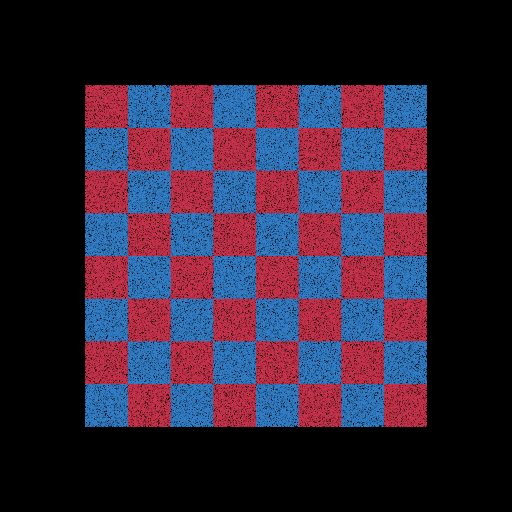
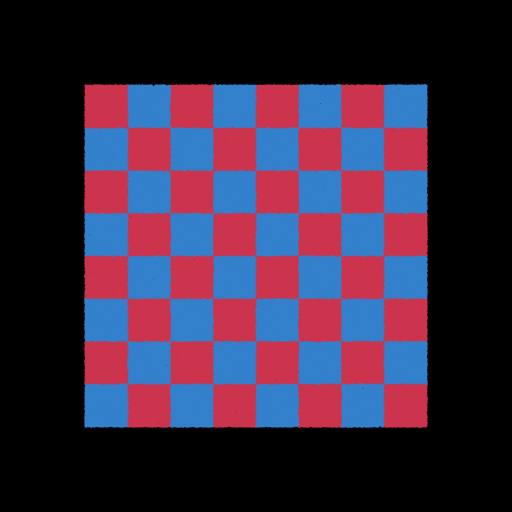
fix: splats rendered at HALF their true screen size (missing px->NDC 2x)
The antimatter15-derived vertex shader converts the pixel half-extent to
NDC as axis/viewport — but NDC spans 2 units across the viewport, so
every splat drew at half size. Dense areas hid it (and users compensated
with Splat Size ~2); grazing-angle surfaces at wide-lens screen edges
showed it as sparse fuzzy streaks vs POBIMStudio.

- vertex offset now (c.x*major + c.y*minor) * 2 / vp: vQuad t maps to
  r = t*sqrt(2)*sigma, so frag exp(-t^2) IS the true gaussian
  exp(-r^2/2sigma^2) hitting exp(-4) at the quad edge (engine-equal)
- axis cap halved (0.5 * min(1024, vp)) and extent cull factor doubled
  to keep on-screen caps identical to the engine
- new analytic tests: single-splat alpha profile vs the closed-form
  gaussian (catches size/falloff miscalibration), and edge-vs-center
  footprint ratio at ~90 deg FOV (catches Jacobian streaking); fixed a
  UBO-lifetime pitfall in the test harness (inline temporary freed
  before batch.draw)

Sub-pixel wall continuity: 0.000% holes (was 0.25%).
NOTE: reset Splat Size to 1.0 in existing scenes.

Changed region(s): [[0.1562, 0.1562, 0.8438, 0.8438]]

diff --git a/tests/gpu_test_blender.py b/tests/gpu_test_blender.py
@@ -200,6 +200,108 @@ def run_tests():
         f'ring radius={ring_r:.2f}')
     assert 1.2 < ring_r < 2.8, f'picked point not on torus surface (r={ring_r})'
 
+    # --- analytic gaussian profile -------------------------------------
+    # Render ONE isotropic splat and compare the alpha falloff against the
+    # true gaussian. Catches size/falloff calibration bugs — e.g. the
+    # missing px->NDC factor 2 that drew every splat at half size.
+    from pobim_splats.ply_loader import build_cloud
+
+    sigma_w = 0.5
+    z_dist = 8.0
+    f_ndc = 2.0
+    SIZE = 256
+    f_px = f_ndc * SIZE / 2.0
+    sigma_px = f_px * sigma_w / z_dist   # = 16 px
+
+    one = build_cloud(
+        np.zeros((1, 3), np.float32),
+        np.full((1, 3), sigma_w, np.float32),
+        np.array([[1, 0, 0, 0]], np.float32),
+        np.ones((1, 3), np.float32),
+        np.ones(1, np.float32))
+    sg1 = splat_gpu.SplatGPU(one)
+
+    view1 = np.eye(4, dtype=np.float32)
+    view1[2, 3] = -z_dist
+    proj1 = np.array([
+        [f_ndc, 0, 0, 0], [0, f_ndc, 0, 0],
+        [0, 0, -1.02, -2.02], [0, 0, -1, 0]], np.float32)
+
+    def render_single(sgx, view_m, proj_m):
+        offsx = gpu.types.GPUOffScreen(SIZE, SIZE)
+        with offsx.bind():
+            fbx = gpu.state.active_framebuffer_get()
+            fbx.clear(color=(0.0, 0.0, 0.0, 0.0), depth=1.0)
+            gpu.state.blend_set('ALPHA')
+            shader.bind()
+            # keep the UBO referenced until the draw call — passing the
+            # temporary inline lets Python free it before batch.draw
+            ubox = make_ubo(view_m, proj_m, SIZE)
+            shader.uniform_block('u', ubox)
+            shader.uniform_sampler('dataTex', sgx.data_tex)
+            shader.uniform_sampler('orderTex', sgx.order_tex)
+            shader.uniform_sampler('shTex', sgx.data_tex)
+            sgx.batch.draw(shader)
+            gpu.state.blend_set('NONE')
+            rawx = fbx.read_color(0, 0, SIZE, SIZE, 4, 0, 'FLOAT')
+            out = np.array(rawx.to_list(), np.float32).reshape(SIZE, SIZE, 4)
+        offsx.free()
+        return out
+
+    px1 = render_single(sg1, view1, proj1)
+    lit1 = np.argwhere(px1[..., 3] > 0.01)
+    log(f'       single splat: lit={lit1.shape[0]} '
+        f'bbox={(lit1.min(0).tolist(), lit1.max(0).tolist()) if lit1.shape[0] else None}')
+    cx = SIZE // 2
+    exp4 = float(np.exp(-4.0))
+
+    def expected_alpha(r_px):
+        g = float(np.exp(-(r_px ** 2) / (2.0 * sigma_px ** 2)))
+        return max((g - exp4) / (1.0 - exp4), 0.0)
+
+    a0 = float(px1[cx, cx, 3])
+    a1 = float(px1[cx, cx + int(sigma_px), 3])
+    a2 = float(px1[cx, cx + int(2 * sigma_px), 3])
+    log(f'OK gaussian profile: a(0)={a0:.3f} a(σ)={a1:.3f}/{expected_alpha(sigma_px):.3f} '
+        f'a(2σ)={a2:.3f}/{expected_alpha(2 * sigma_px):.3f}')
+    assert a0 > 0.95, f'center alpha {a0}'
+    assert abs(a1 - expected_alpha(sigma_px)) < 0.08, \
+        f'alpha at 1σ = {a1} expected {expected_alpha(sigma_px)} — size/falloff miscalibrated'
+    assert abs(a2 - expected_alpha(2 * sigma_px)) < 0.06, \
+        f'alpha at 2σ = {a2} expected {expected_alpha(2 * sigma_px)}'
+
+    # --- edge stretch bounded at wide FOV -------------------------------
+    # A splat near the screen edge of a ~90° lens must not smear into a
+    # radial streak (INRIA Jacobian clamp keeps its footprint bounded).
+    def footprint(x_world):
+        cl = build_cloud(
+            np.array([[x_world, 0.0, 0.0]], np.float32),
+            np.full((1, 3), 0.15, np.float32),
+            np.array([[1, 0, 0, 0]], np.float32),
+            np.ones((1, 3), np.float32),
+            np.ones(1, np.float32))
+        sgx = splat_gpu.SplatGPU(cl)
+        vw = np.eye(4, dtype=np.float32)
+        vw[2, 3] = -6.0
+        pw = np.array([
+            [1.0, 0, 0, 0], [0, 1.0, 0, 0],
+            [0, 0, -1.02, -2.02], [0, 0, -1, 0]], np.float32)
+        img = render_single(sgx, vw, pw)
+        lit_idx = np.argwhere(img[..., 3] > 0.05)
+        if lit_idx.shape[0] == 0:
+            return 0.0
+        return float(max(lit_idx[:, 0].max() - lit_idx[:, 0].min(),
+                         lit_idx[:, 1].max() - lit_idx[:, 1].min()))
+
+    center_ext = footprint(0.0)
+    edge_ext = footprint(5.2)   # ndc x ≈ 0.87 at z=6 with f=1 (~90° lens)
+    log(f'OK edge stretch: center={center_ext:.0f}px edge={edge_ext:.0f}px '
+        f'ratio={edge_ext / max(center_ext, 1.0):.2f}')
+    assert center_ext > 4, 'center splat did not render'
+    assert edge_ext > 0, 'edge splat was wrongly culled'
+    assert edge_ext < 3.5 * center_ext, \
+        f'edge splat smeared into a streak ({edge_ext:.0f}px vs {center_ext:.0f}px)'
+
     pobim_splats.unregister()
     log('PASSED')
 

diff --git a/pobim_splats/splat_gpu.py b/pobim_splats/splat_gpu.py
@@ -193,7 +193,8 @@ void main()
     // with cxx >= cyy (or a perfect circle); x-axis is the correct fallback
     vec2 dv = vec2(cxy, lambda1 - cxx);
     vec2 diagv = dot(dv, dv) > 1e-12 ? normalize(dv) : vec2(1.0, 0.0);
-    float vmin = min(1024.0, min(vp.x, vp.y));
+    // half of the engine's on-screen cap (the quad is scaled 2x below)
+    float vmin = 0.5 * min(1024.0, min(vp.x, vp.y));
     float l1 = min(sqrt(2.0 * lambda1), vmin);
     float l2 = min(sqrt(2.0 * lambda2), vmin);
     vec2 majorAxis = l1 * diagv;
@@ -202,7 +203,7 @@ void main()
     // extent-aware frustum cull (engine gsplatCorner.js): reject only when
     // the whole ellipse is outside — center-based culling pops large splats
     // at the screen edges with wide lenses
-    float extentNdc = 2.0 * max(l1, l2) / min(vp.x, vp.y);
+    float extentNdc = 4.0 * max(l1, l2) / min(vp.x, vp.y);
     if (any(greaterThan(abs(pos2d.xy) - vec2(extentNdc) * abs(pos2d.w),
                         vec2(abs(pos2d.w))))) {
         emitDegenerate();
@@ -244,9 +245,16 @@ void main()
     vec2 c = kCorners[corner];
     vQuad = c;
 
+    // The 2.0 factor converts the pixel half-extent to NDC (NDC spans 2
+    // units across the viewport). The antimatter15-derived shader this was
+    // ported from omits it, drawing every splat at HALF its true screen
+    // size — the root cause of thin/fuzzy surfaces (and why Splat Size ~2
+    // "looked right"). With it, vQuad t in ±2 maps to r = t*sqrt(2)*sigma,
+    // so exp(-t^2) in the fragment is exactly the true gaussian
+    // exp(-r^2 / (2 sigma^2)) reaching exp(-4) at the quad edge.
     vec2 center = pos2d.xy / pos2d.w;
     gl_Position = vec4(
-        center + c.x * majorAxis / vp + c.y * minorAxis / vp,
+        center + (c.x * majorAxis + c.y * minorAxis) * 2.0 / vp,
         pos2d.z / pos2d.w,
         1.0);
 }

diff --git a/pobim_splats/__init__.py b/pobim_splats/__init__.py
@@ -1,7 +1,7 @@
 bl_info = {
     'name': 'POBIM Splats — 3D Gaussian Splatting Viewer',
     'author': 'POBIM',
-    'version': (0, 4, 1),
+    'version': (0, 4, 2),
     'blender': (4, 2, 0),
     'location': 'View3D > Sidebar (N) > POBIM3DGS',
     'description': 'Import and display 3D Gaussian Splatting .ply files with a real GPU splat renderer',